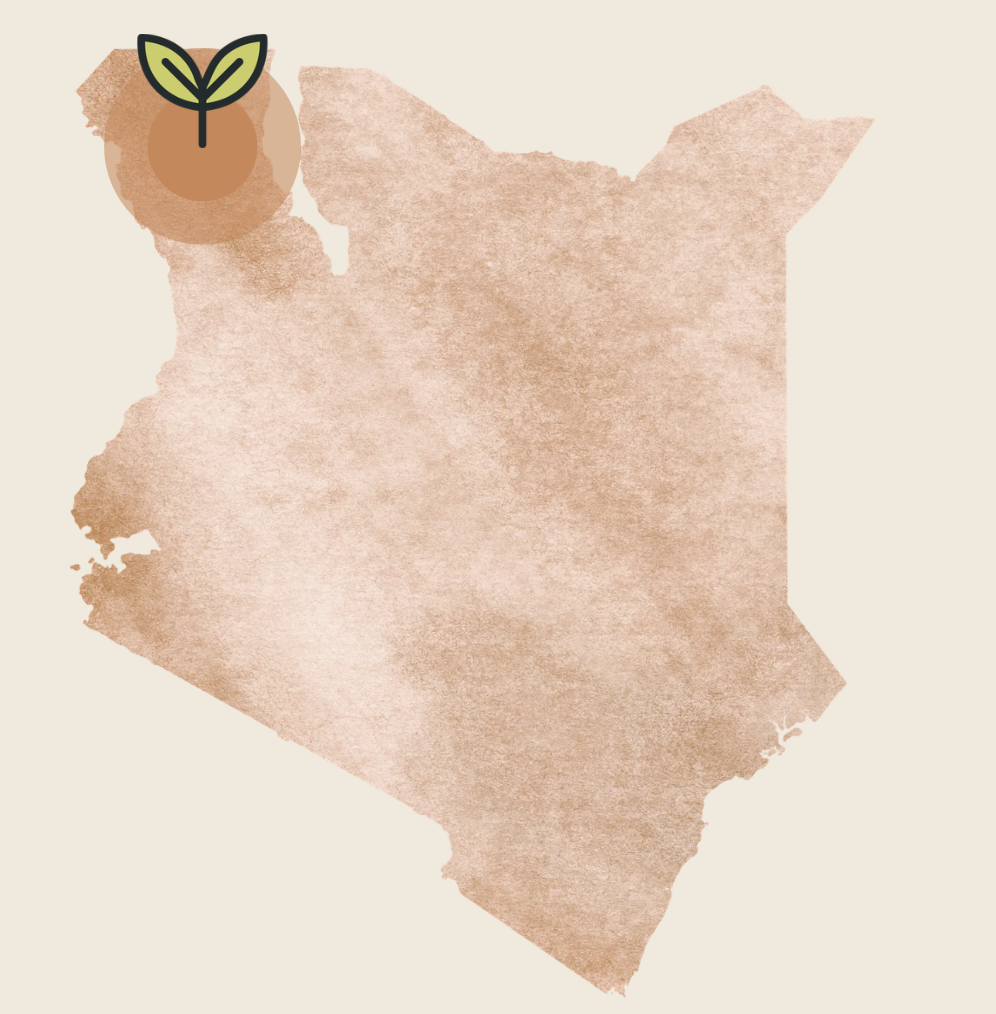
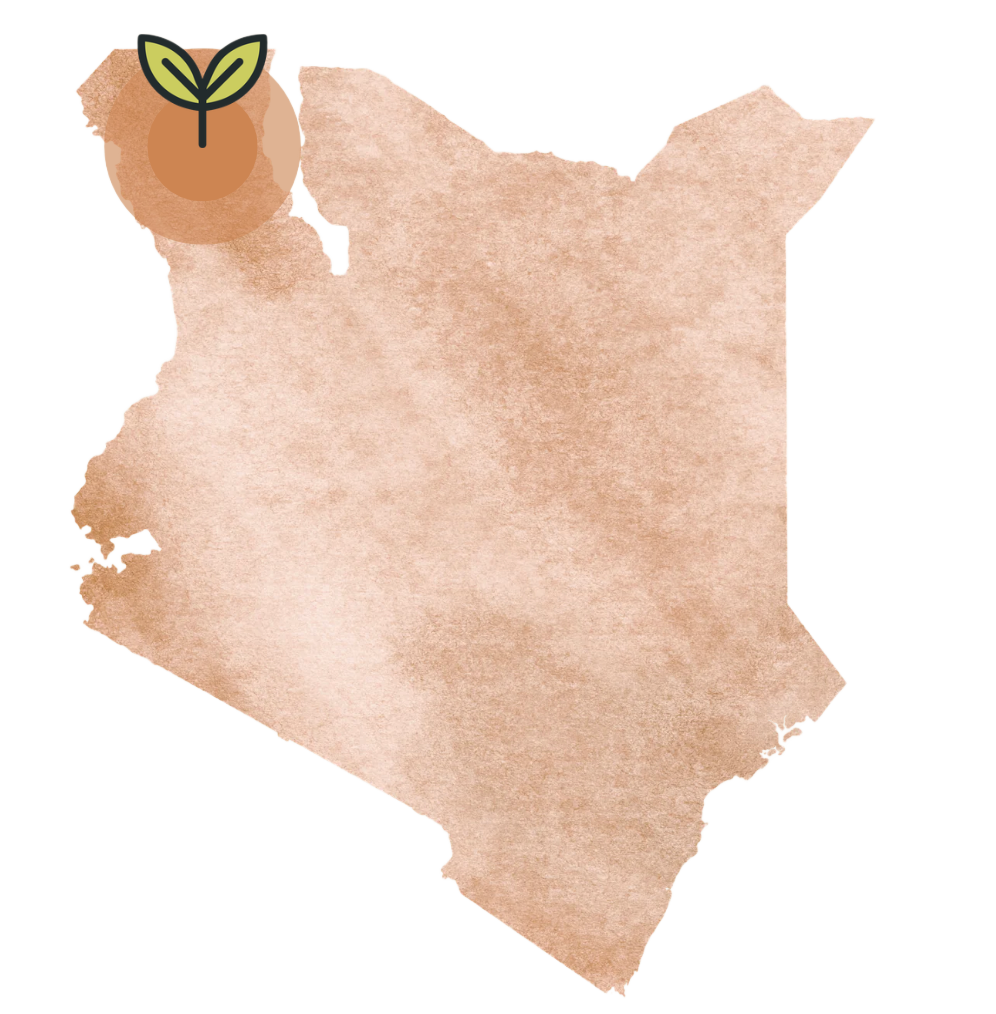
Update map image and add responsive sizing with CSS wrapper

diff --git a/index.html b/index.html
@@ -505,6 +505,13 @@
       align-items: center;
     }
 
+    .map-image {
+      max-width: 100%;
+      width: 500px;
+      height: auto;
+      object-fit: contain;
+    }
+
     .map-svg {
       width: 100%;
       max-width: 480px;